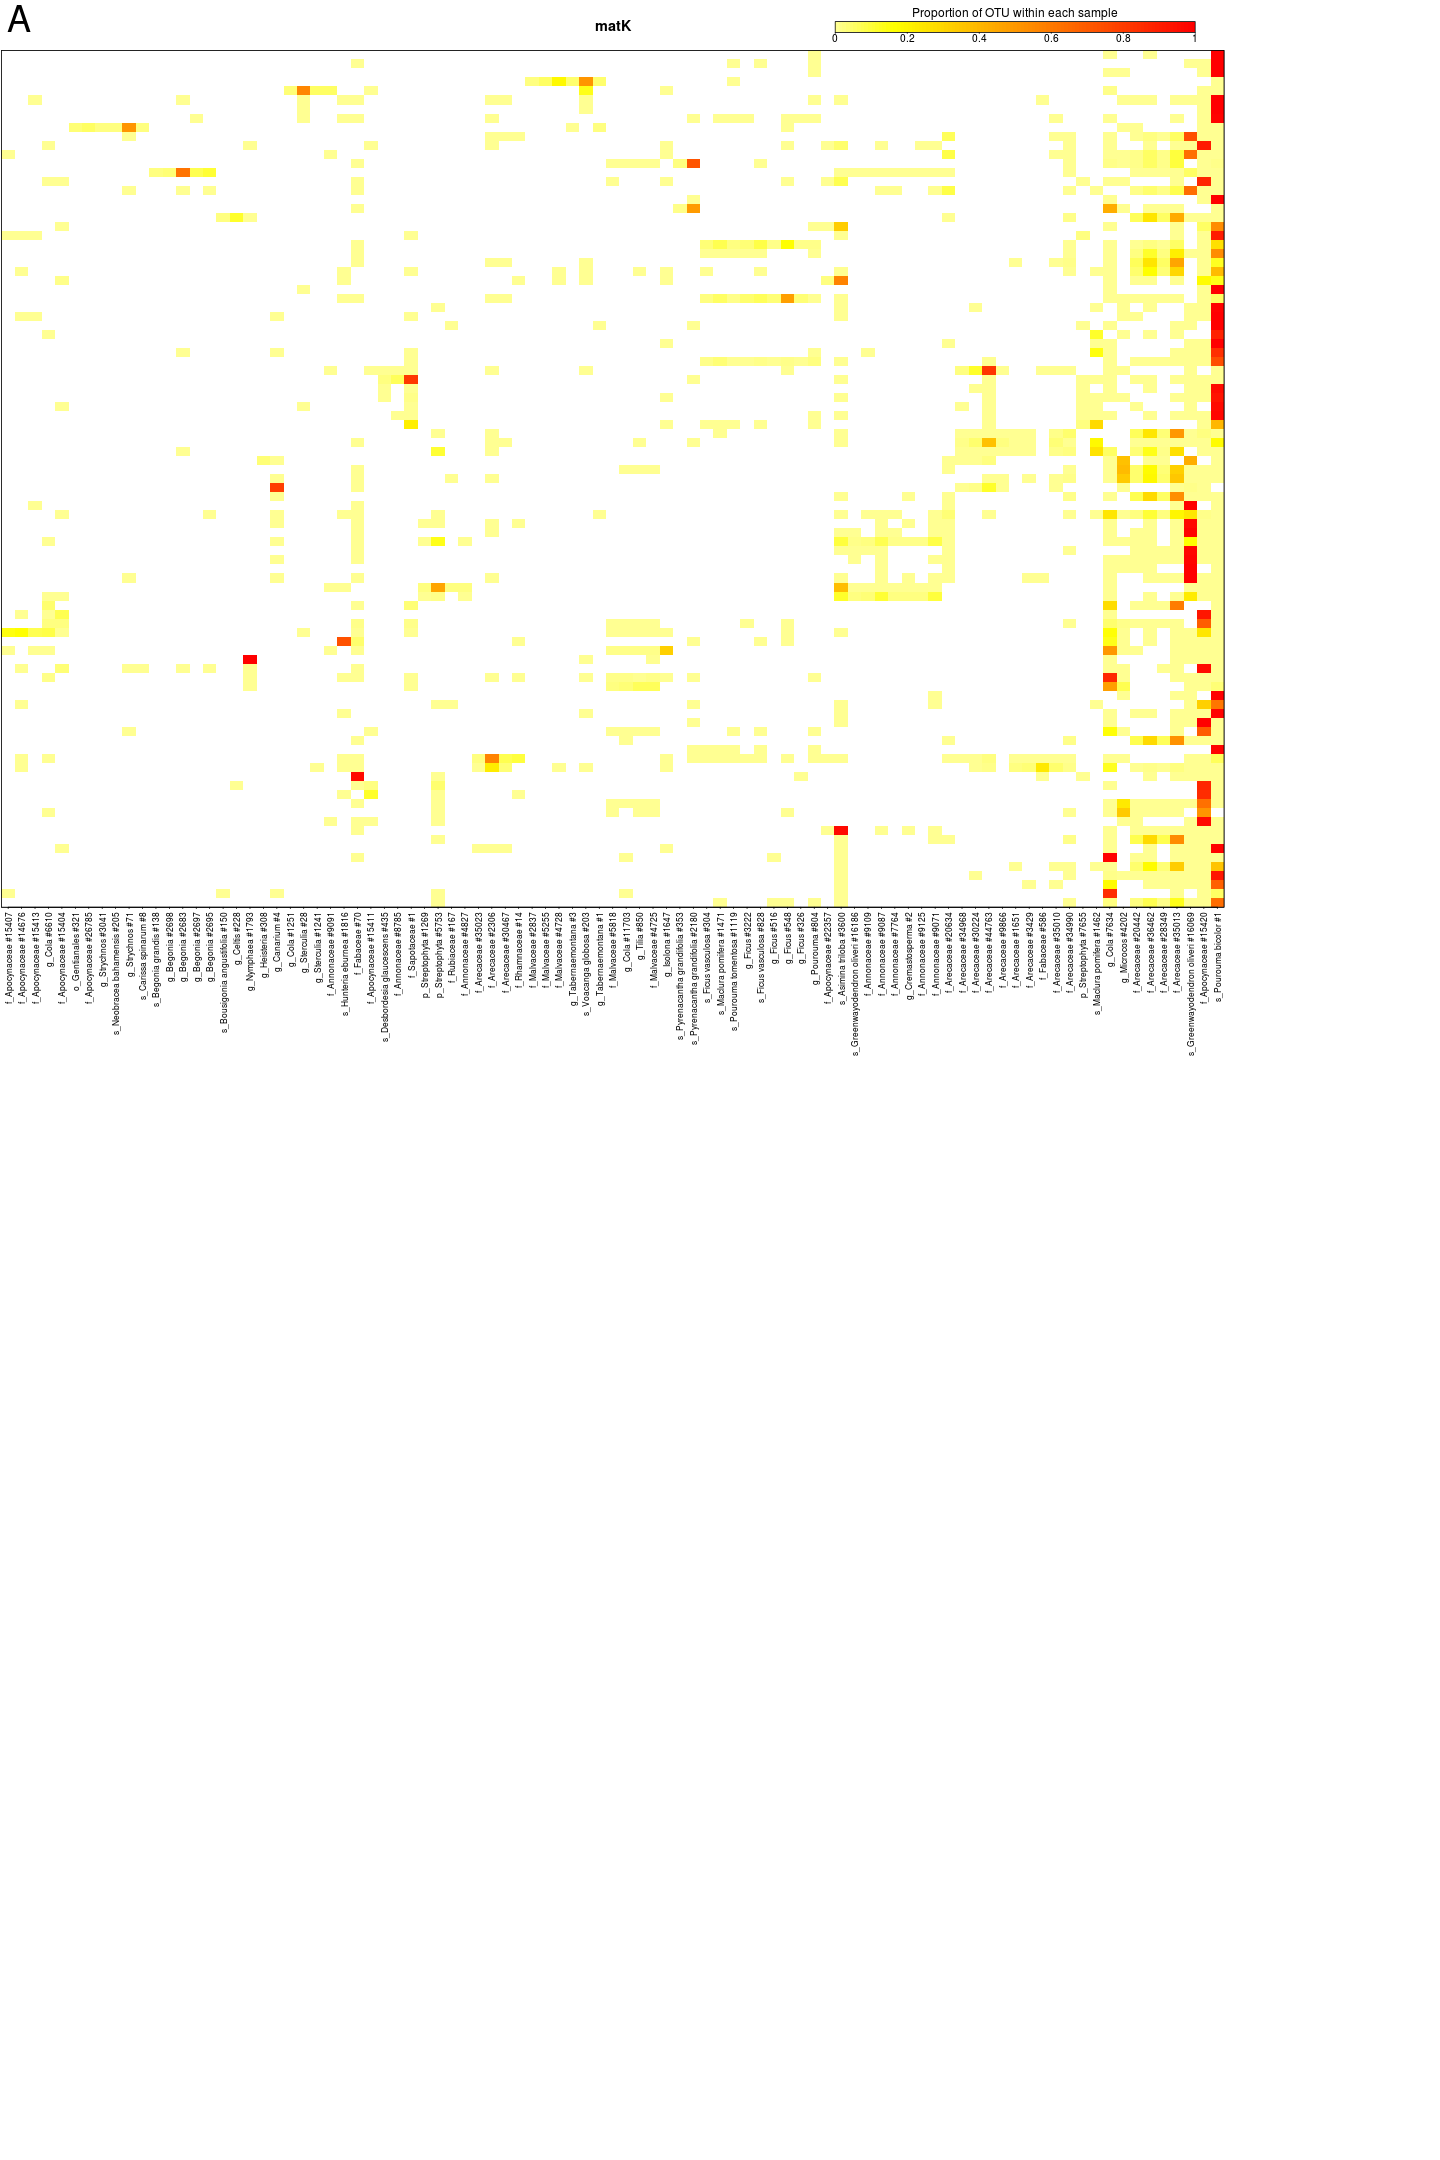
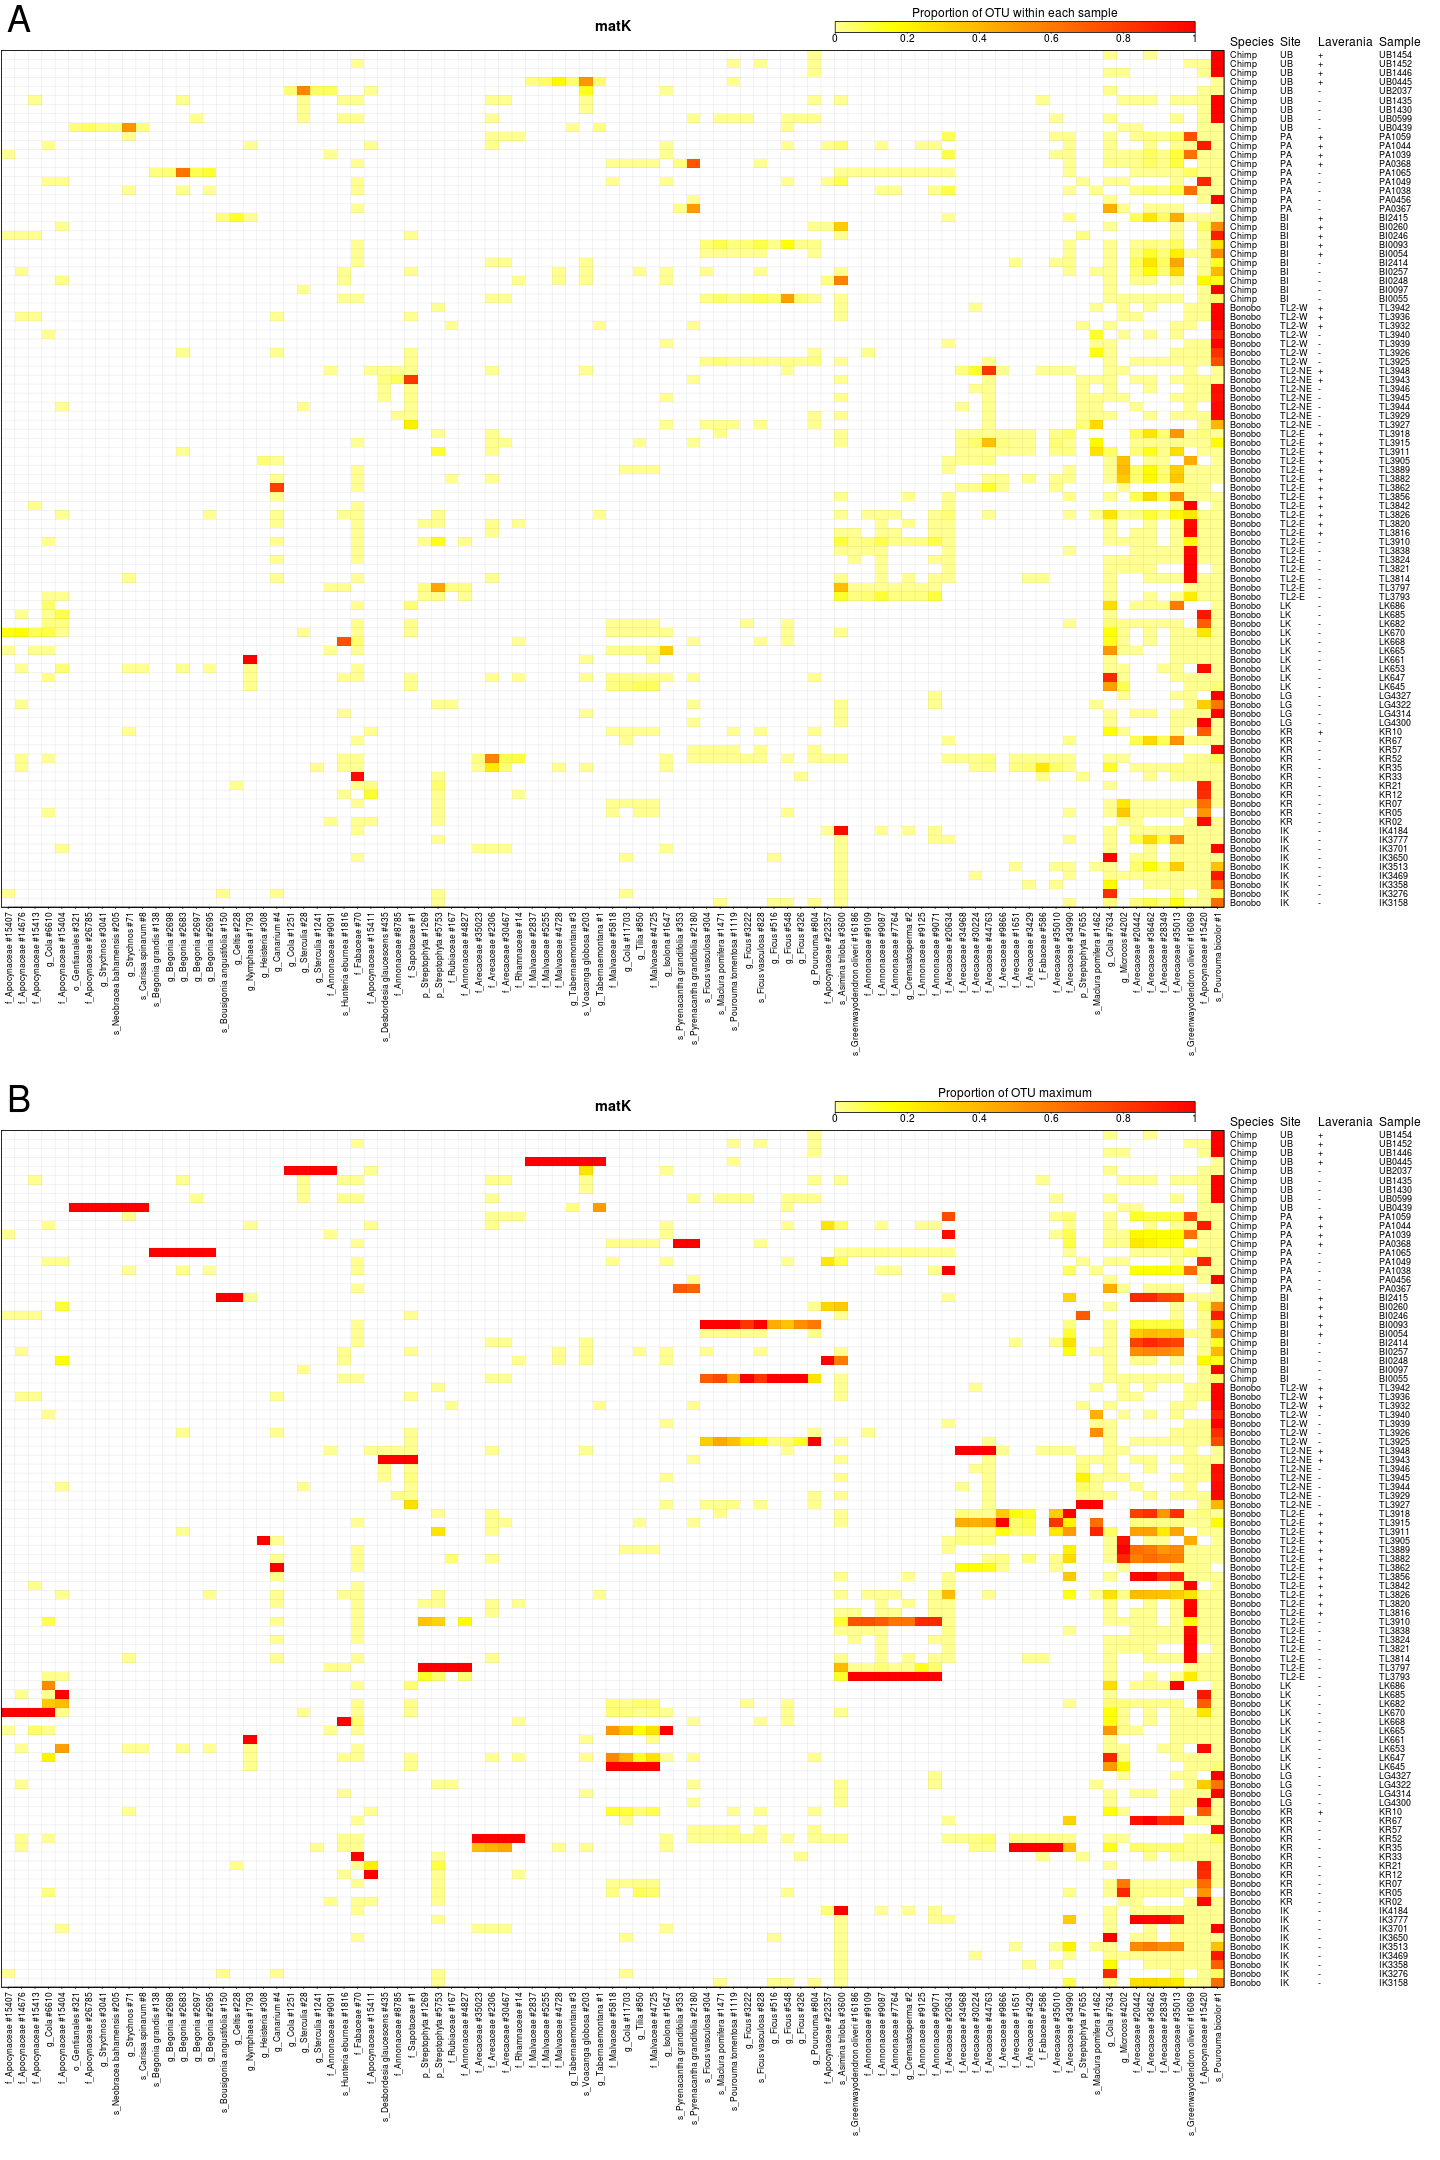
Fix includes. Increase figure size

diff --git a/makeHeatmap.md b/makeHeatmap.md
@@ -10,6 +10,10 @@ packageVersion('dnar')
 ## [1] '0.1'
 ```
 
+```r
+source('functions.R')
+```
+
 ## Load data
 
 
@@ -82,7 +86,7 @@ for(ii in names(swarmData)){
 ```
 
 ```
-## Error in addMetaData(metadata, cex = 0.75): could not find function "addMetaData"
+## rbcL
 ```
 
-![plot of chunk plantHeatmap](figure/plantHeatmap-1.png)
+![plot of chunk plantHeatmap](figure/plantHeatmap-1.png)![plot of chunk plantHeatmap](figure/plantHeatmap-2.png)
